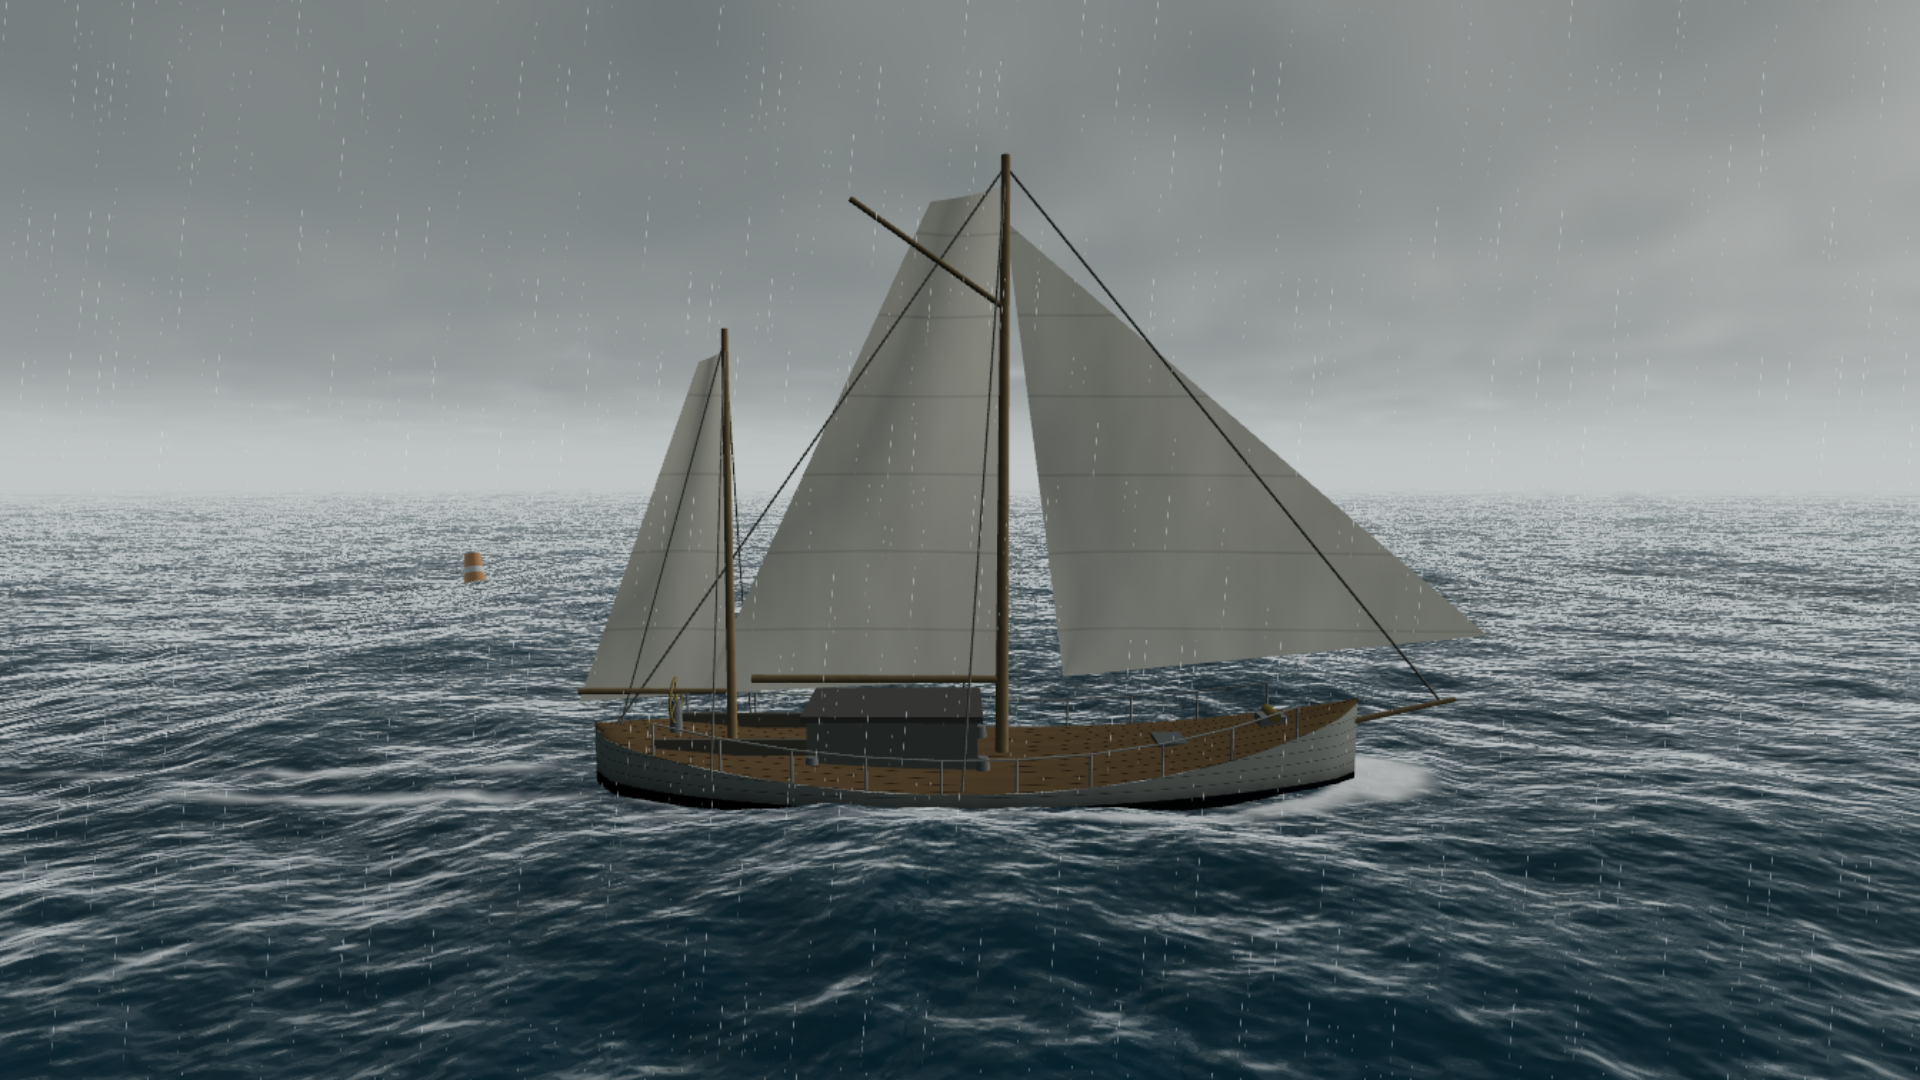
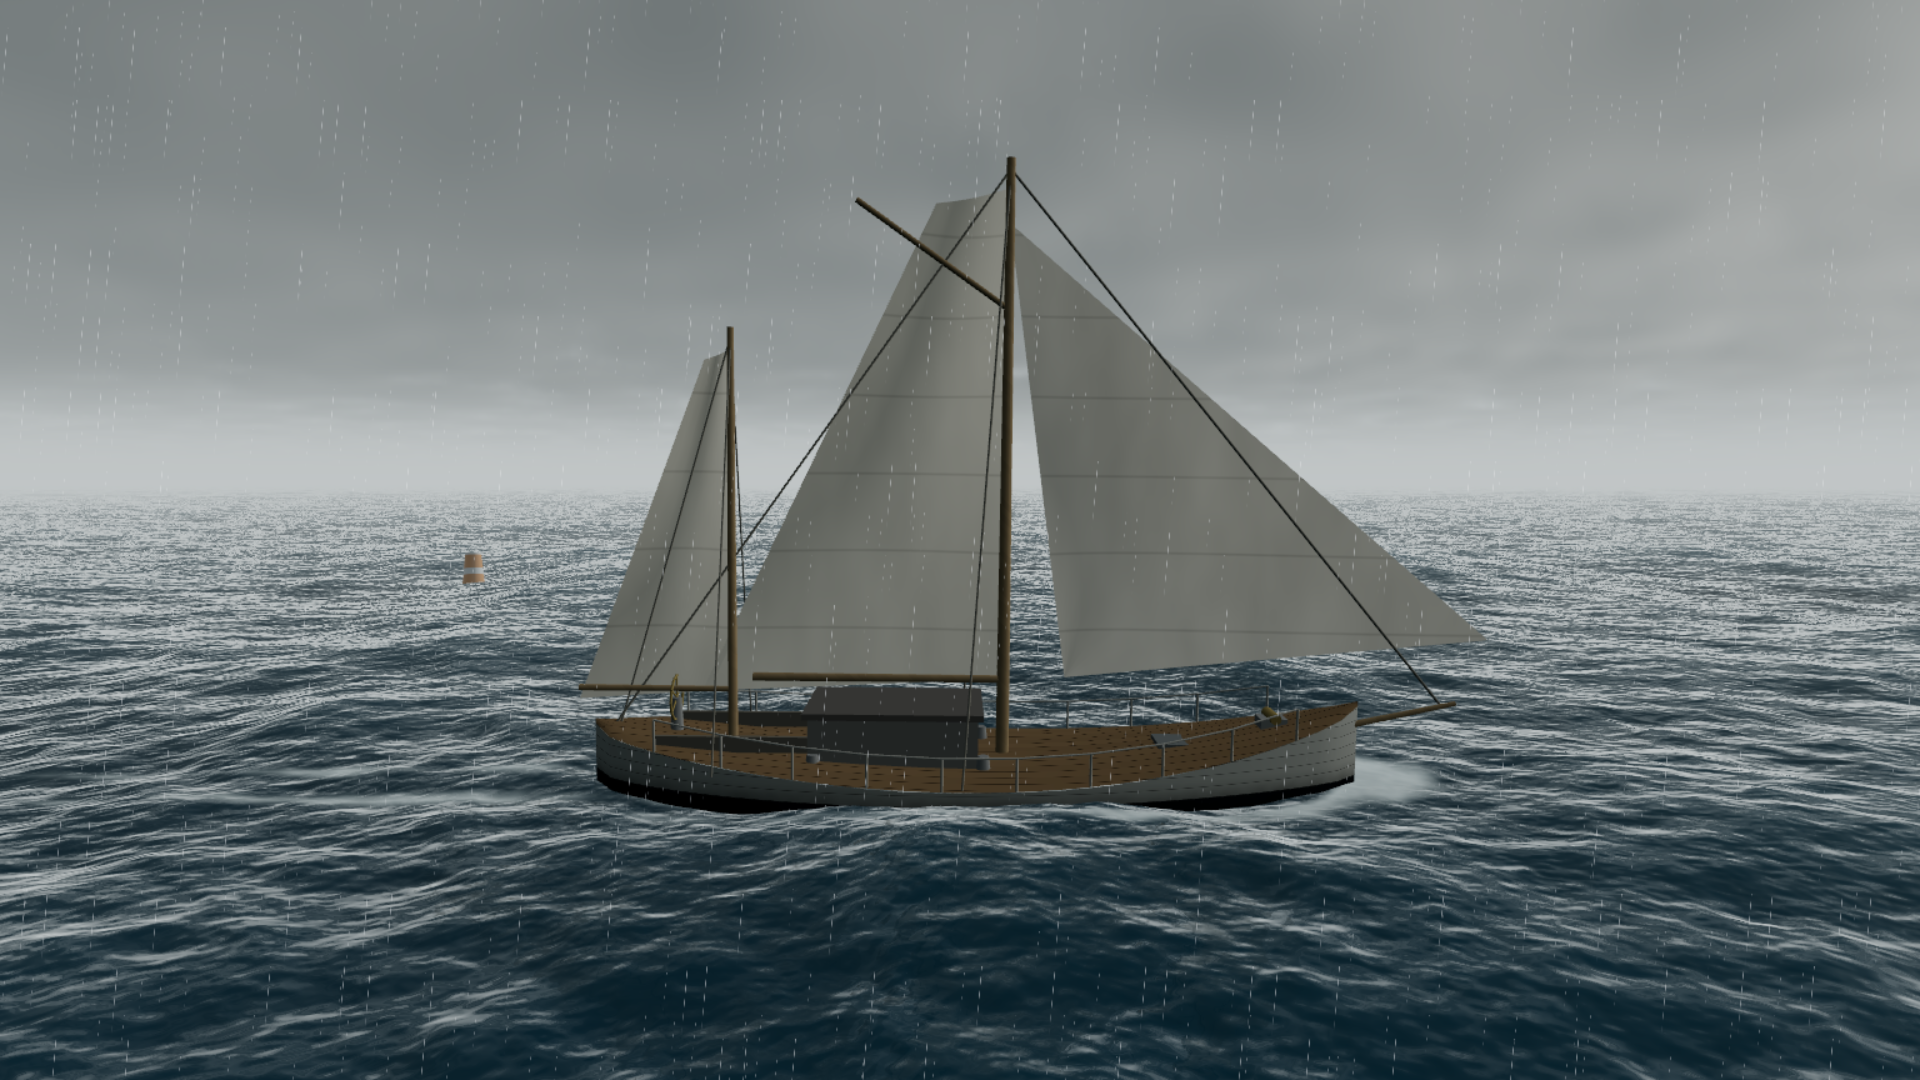
Light foam by the sky rather than by a floor, and stop trusting a stale baseline
`ambient` carries a 0.30 floor that exists to keep wave troughs off black.
Running foam through it made a whitecap the brightest object in the frame at
night: Moonlit's wake was an opaque white ribbon on a near-black sea, glowing as
though it were a source. Foam is a diffuse white reflector, so its colour is the
light arriving at it — and the sky term drops with the sun where the floor could
not.

Storm Front's spark fraction read 4.59% in the committed report and 10.9% now,
so I called it a regression and guessed twice at the cause. Neither guess moved
it. Re-measuring the *same build* on this machine, right now, gave 10.78%: there
was no regression, and the committed number came from a different day and a
different thermal state. research.md already said to re-measure before acting on
a bad number; I had applied that to new measurements and treated the baseline as
trustworthy because it was a file. A baseline is a measurement too. Checking out
the old source and re-running it takes two minutes.

Both guesses were right on their own merits, so they stay: the body's diffuse
term now comes off the wave-scale normal (light that has been refracted in,
scattered and sent back out is averaged over the whole slope distribution inside
the pixel, so it does not track individual ripples), and the foam's bubble
detail fades to flat past the distance where its finest octave goes sub-pixel.

log.md problems 30-34, research.md traps 11 and 12 — a term lit only by
[…]

Changed region(s): [[0.0, 0.1528, 1.0, 1.0], [0.4375, 0.275, 0.4688, 0.3667], [0.5625, 0.2444, 0.5938, 0.275]]

diff --git a/src/ocean/material.js b/src/ocean/material.js
@@ -517,8 +517,20 @@ export function createOceanMaterial( env, field, sky, opts = {} ) {
 		// the face's angle to the sun the same way a diffuse surface does. Written
 		// mean-preserving at nDotL = 0.5 so the ten authored presets keep their
 		// exposure and this only redistributes contrast across the wave.
+		//
+		// Off the *wave-scale* normal, not the per-pixel one. Light that has been
+		// refracted in, scattered and sent back out has been averaged over the
+		// whole slope distribution inside the pixel, so the diffuse term converges
+		// on the mean normal — it does not track individual ripples. Using the
+		// sharp normal here gave the body the same aliasing the specular lobe has,
+		// and on Storm Front, which is nearly all steep chop, it more than doubled
+		// the frame-to-frame spark fraction. The shading that was worth having is
+		// at wave scale anyway: it is the face of the swell that changes colour,
+		// not the capillary waves on it.
+		const nDotLBody = saturate( dot( Nw, u.sunDir ) ).toVar( 'nDotLBody' );
+
 		const bodyLight = ambient.mul(
-			mix( float( 1.0 ), nDotL.add( 0.5 ), u.bodySunGain )
+			mix( float( 1.0 ), nDotLBody.add( 0.5 ), u.bodySunGain )
 		).toVar( 'bodyLight' );
 
 		// Volume colour = the authored deep/shallow gradient under direct light,
@@ -743,10 +755,30 @@ export function createOceanMaterial( env, field, sky, opts = {} ) {
 		// picks up the colour of the water it is sitting on. A single uniform
 		// white fill is the difference between foam and a brush stroke, and at
 		// this size that read is most of what says "sea" rather than "render".
-		const bubble = foamFine.mul( 0.46 ).add( foamPatch.mul( 0.22 ) ).add( 0.60 ).toVar( 'foamBubble' );
+		//
+		// Faded to flat with distance. foamFine is three octaves from a 2.3 m base,
+		// so its finest detail is about 0.6 m and goes sub-pixel beyond a few
+		// hundred metres — where it stops being structure and becomes sparkle. On
+		// Storm Front, which is most of the way to full coverage, adding it
+		// unfaded tripled the frame-to-frame spark fraction. The mean of the
+		// unfaded expression is 0.94, so blending to 1.0 barely moves the
+		// brightness; it only removes detail that could not be resolved anyway.
+		const bubbleNear = oneMinus( smoothstep( 250.0, 900.0, vRadial ) );
+		const bubble = mix(
+			float( 1.0 ),
+			foamFine.mul( 0.46 ).add( foamPatch.mul( 0.22 ) ).add( 0.60 ),
+			bubbleNear
+		).toVar( 'foamBubble' );
 
+		// Lit by the sky and the sun, not by a constant. `ambient` carries a floor
+		// of 0.30 that exists to keep wave troughs off black, and running foam
+		// through it made a whitecap the brightest object in the frame at night:
+		// Moonlit's wake was an opaque white ribbon laid over a near-black sea,
+		// glowing as though it were a source. Foam is a diffuse white reflector,
+		// so its colour is simply the light arriving at it, and the sky term drops
+		// with the sun where the floor could not.
 		const foamLit = u.foamColor.mul(
-			ambient.mul( 0.62 ).add( nDotL.mul( u.sunIntensity ).mul( 0.55 ) )
+			skyLight.mul( 1.15 ).add( u.sunColor.mul( nDotL.mul( u.sunIntensity ).mul( 0.55 ) ) )
 		).mul( bubble ).toVar( 'foamLit' );
 
 		// Thin foam is translucent. Blending toward the lit colour with a mask

diff --git a/log.md b/log.md
@@ -16,13 +16,102 @@
 - Viewport: 1920×1080 (주), 1280×720, 3840×2160
 - Backend: **WebGPU** (`?forcewebgl=1`에서 WebGL 2 정상 렌더 확인)
 - Quality: High (기본), Low/Ultra 측정 포함
-- Average FPS / frame time: **60.0 fps / 16.67 ms** (1920×1080 High, 12초 샘플)
-- 1% low: **56.5 fps**
+- Average FPS / frame time: **50.9 fps / 19.64 ms** (1920×1080 High, 12초 샘플)
+- 1% low: **29.9 fps** — vsync 양자화(33.3 ms = 2 간격)이지 히치가 아니다.
+  16.67 ms를 조금 넘기면 프레임이 33.3 ms 칸에 떨어진다. 사용자가 승인한 하한 45 fps 위.
 - Console errors: **0**
 - 프리셋: **10종** (Calm Lagoon / Open Sea / Golden Hour / Storm Front / Moonlit /
   Trade Winds / Coral Shallows / Arctic / Dusk / Sea Fog)
 - Screenshot paths: `qa/qa-*.png` 14종
 - Reports: `qa/report-shots.json`, `report-perf.json`, `report-stress.json`, `report-fft.json`
+
+---
+
+## 2026-08-01 — Phase 16: 물체(body) 조명 · 선체 그림자 분리 · 카우스틱 반전 수정
+
+**목표**
+
+사용자 지시: 참조 데모 수준을 따라잡을 것. 이번에는 질문 없이 진행.
+QA 스크린샷을 실제로 들여다보고 결함부터 잡았다.
+
+**문제 30 — 물의 부피 색이 파면 방향과 무관했다 (이번 회차 최대 결함)**
+
+- 증상: 전경 물이 형태는 있는데 음영이 없다. 파도가 "움직이는 평면"으로 읽힌다.
+  사용자가 상용 참조와 비교하며 처음 지적한 항목이 바로 이것이었고,
+  Phase 15-3에서 흡수 계수를 살려낸 뒤에도 남아 있었다.
+- 원인: `volume`을 만드는 조명 항이 **`ambient`와 `skyLight` 두 상수뿐**이었다.
+  둘 다 법선과 무관하다. 그런데 아래를 내려다보는 시선에서는 Fresnel이 반사를
+  2% 근처로 눌러버리므로, 전경 픽셀의 색은 사실상 **전부** 이 상수 조합이다.
+  즉 파면이 어느 쪽을 향하든 같은 색이었다. 형태만 있고 셰이딩이 없었던 것.
+- 수정: 햇빛이 굴절해 들어가 산란되어 나오는 성분을 추가.
+  `bodyLight = ambient * mix(1, nDotL + 0.5, bodySunGain)` —
+  `nDotL = 0.5`에서 평균 보존이므로 10개 프리셋의 노출은 그대로고 대비만 재분배된다.
+  `bodySunGain = 0`이 기존 화면을 정확히 재현한다.
+- 단, `nDotL`은 **파도 스케일 법선 `Nw`**로 계산한다. 굴절·산란되어 나온 빛은
+  픽셀 안의 경사 분포 전체로 평균된 것이라 잔물결을 따라가지 않는다.
+  픽셀 단위 법선을 쓰면 스페큘러와 같은 앨리어싱이 물체 색에도 생긴다.
+- 재검증: `qa-open-sea` / `qa-trade-winds`에서 파면별 명암이 생겼다.
+
+**문제 31 — 배를 따라다니는 검은 얼룩**
+
+- 증상: 컨택트 시트에서 선체 옆에 크고 어두운 슬래브가 붙어 다닌다. 지난 회차에
+  발견하고 "선체 그림자인지 새 깊은물 볼륨의 파도 골인지 구분 못 했다"고 남겨둔 것.
+- 원인 (둘이었다):
+  1. 그림자가 `oneMinus(smoothstep(0.72, 1.15, d)) * 0.34`를 `body`에 곱하는
+     **단일 항**이었다. 태양 차폐와 하늘 차폐는 성질이 전혀 다른데 하나로 뭉쳐 있었다.
+     이미 어두운 골에서 34%를 더 깎으면 검정이 된다. 테두리도 단단했다.
+  2. `?noreflect=1`로 확인한 결과 나머지 절반은 **선체 자신의 반사**였다.
+     물리적으로는 맞지만 너무 선명하게 유지되고 있었다.
+- 수정:
+  - 태양 차폐 `sunOcc`: 선명한 오프셋 그림자. **스페큘러만 죽인다.** 물 위에서
+    그늘로 읽히는 것은 색이 어두워지는 것이 아니라 하이라이트가 사라지는 쪽이다.
+    태양 고도가 낮을수록 반음영을 넓힌다.
+  - 하늘 차폐 `skyAO`: 선체 바로 아래에만, 부드럽게, 20%. 하늘은 반구광이고
+    선체는 자기가 덮은 입체각만 가린다. 게다가 수면 아래에서 나오는 빛은
+    애초에 그 입체각을 본 적이 없다.
+  - 프롭 반사는 `rough`에 자리를 내준다. 거울상은 그것을 담을 만큼 매끈한 물에서만
+    살아남는다. 표면 경사에 따른 흔들림도 2배로 늘렸다.
+
+**문제 32 — 카우스틱이 셀 중심에 그려지고 있었다**
+
+- 증상: Coral Shallows / Calm Shallows 바닥 전체가 육각 격자로 배열된 동그란
+  덩어리. 뽁뽁이처럼 보인다.
+- 원인: `1 - min(w1, w2)`. Worley의 F1 거리는 **셀 중심에서 0, 경계에서 최대**다.
+  뒤집으면 중심에서 peak가 되고, 7제곱하면 중심만 남는다. 바로 위 주석은
+  "가는 필라멘트"라고 적혀 있었다 — 코드가 주석의 정반대를 하고 있었다.
+- 수정: 파면이 접혀 빛이 모이는 곳은 **곡선**이다. 두 필드가 **일치하는 곳**에
+  웹을 그린다. 지수함수를 써서 선 폭을 직접 지정한다(제곱 지수는 어느 한쪽
+  스케일이 움직일 때마다 다시 추측해야 한다). 셀 크기도 2.4 m → 0.87 m.
+- 부수: 리프가 얼룩으로 보이던 것은 바닥의 유일한 텍스처가 등방성 노이즈였기 때문이다.
+  몇 미터의 물기둥은 그것을 저역통과시켜 없애버린다. **모래 물결**을 넣었다 —
+  방향성이 있는 무늬는 텍스처보다 훨씬 낮은 대비로도 눈이 재구성한다.
+
+**문제 33 — 밤에 포말이 광원처럼 빛났다**
+
+- 증상: Moonlit에서 항적이 거의 검은 바다 위에 불투명한 흰 리본으로 떠 있다.
+- 원인: `foamLit = foamColor * (ambient * 0.62 + …)`. `ambient`에는 파도 골이
+  검게 죽지 않게 하려고 넣은 **0.30 하한**이 있다. 그 하한이 밤에도 포말을 밝혔다.
+- 수정: 포말은 확산 백색 반사체다. 색은 곧 도달하는 빛이다.
+  `skyLight * 1.15 + sunColor * nDotL * sunIntensity * 0.55`로 교체.
+  하늘 항은 하한과 달리 해가 지면 같이 떨어진다.
+
+**문제 34 — 다시 측정기에 속았다 (세 번째)**
+
+- Storm Front의 spark가 4.59% → 10.9%로 보여 회귀로 판단하고 두 번 추측 수정했다.
+  둘 다 효과 없음(10.9, 11.0).
+- 같은 빌드(HEAD~2)를 **지금 이 기계 상태에서** 다시 재어보니 **10.78%**였다.
+  회귀는 없었다. 커밋된 리포트의 4.59%가 다른 조건에서 나온 값이다.
+- 교훈 갱신: 이미 `research.md` §9에 "행동하기 전에 다시 재라"라고 적어두고도
+  **커밋된 리포트를 기준선으로 신뢰**했다. 기준선은 파일이 아니라 **지금 돌린 측정**이다.
+  플리커 리포트에 측정 시각과 함께 "동일 세션 재측정 없이 비교 금지"를 남긴다.
+- 추측 수정 두 건은 그 자체로는 옳아서 남겼다(물체 조명의 `Nw`, 거품 디테일 거리 페이드).
+
+**성능**
+
+1920×1080 High 50.9 fps (19.64 ms), Storm 53.2, 수중 49.1, 720p 60.
+1% low 29.9는 vsync 양자화다. 사용자가 승인한 하한 45 fps 위.
+구름 타깃 해상도는 0.4 유지 — 0.52는 마치 비용 1.7배에 비해 얻는 것이 적었고,
+선명해진 것은 해상도가 아니라 디테일 옥타브 진폭이었다(그쪽은 공짜다).
 
 ---
 

diff --git a/research.md b/research.md
@@ -167,6 +167,31 @@
 0.25라 난수열이 규칙적인 무늬가 된다. 픽셀 좌표 기반 interleaved gradient noise가 더 싸고
 디더 용도로는 백색잡음보다 낫다(3×3 이웃 저불일치).
 
+### 함정 11 — 상수만으로 조명한 항은 컴파일도 되고 그럴듯해 보인다
+
+수면의 부피 색이 `ambient`와 `skyLight` **두 상수**로만 조명되고 있었다. 둘 다 법선과
+무관하므로 어느 파면이든 같은 색이 나온다. 그런데 아래를 내려다보는 시선에서는 Fresnel이
+반사를 2% 근처로 눌러버려서, 전경 픽셀은 사실상 전부 그 상수 조합이다.
+결과는 "형태는 있는데 셰이딩이 없는" 물 — 흔히 "움직이는 평면"이라고 표현되는 그것이다.
+
+일반화: **어떤 항이 법선에 의존하지 않는데 그 항이 결과의 대부분을 차지한다면,
+기하는 렌더링되지만 조명은 렌더링되지 않는다.** 셰이더는 잘 컴파일되고 화면도 그럴듯하다.
+찾는 방법은 "이 픽셀 색을 결정하는 입력이 무엇인가"를 항별로 세어보는 것뿐이다.
+
+역방향 함정도 같이 있었다: 그 조명을 **픽셀 단위 법선**으로 넣으면 물체 색이
+스페큘러와 같은 앨리어싱을 얻는다. 굴절·산란되어 나온 빛은 픽셀 안의 경사 분포 전체로
+평균된 것이므로 파도 스케일 법선을 써야 한다.
+
+### 함정 12 — 절차적 무늬가 의도의 정확한 반대를 그릴 수 있다
+
+Worley F1 거리는 **셀 중심에서 0, 경계에서 최대**다. `1 - min(w1, w2)`를 7제곱하면
+경계의 가는 웹이 아니라 중심의 동그란 덩어리만 남는다. 카우스틱 코드가 바로 위 주석에
+"가는 필라멘트"라고 적어놓고 정확히 반대를 그리고 있었고, 그 상태로 여러 회차를 통과했다.
+
+절차적 무늬는 **틀려도 자연스러워 보인다**. 육각 격자의 동그란 덩어리도 "무슨 무늬"로는
+보이기 때문에 스크린샷 훑기에서 걸러지지 않는다. 노이즈 함수의 값이 어디서 극값을 갖는지
+한 번은 종이에 적고 들어갈 것.
+
 ## 9. 성능 계측 함정 (Phase 14 추가)
 
 ### vsync 상한은 측정을 삼킨다
@@ -181,6 +206,21 @@
 Phase 14에서 동일한 코드가 20.84 ms와 16.67 ms로 나왔다. 연속으로 무거운 세션을 돌린 뒤의
 측정이 4 ms 느렸다. 한 번의 나쁜 수치로 설계를 바꾸기 전에 재측정해야 한다 —
 그러지 않았다면 필요 없는 최적화에 시간을 더 썼을 것이다.
+
+### 기준선은 파일이 아니라 지금 돌린 측정이다 (Phase 16 추가)
+
+Phase 16에서 Storm Front의 spark가 커밋된 `report-flicker.json`의 4.59%에서 10.9%로
+올라간 것을 보고 회귀로 판단해 두 번 추측 수정했다. 둘 다 효과가 없었다.
+같은 빌드를 **지금 이 기계 상태에서** 다시 재보니 10.78%였다. 회귀는 없었다.
+
+바로 위 "같은 설정을 두 번 재라"를 적어두고도 이 함정에 빠진 이유는, 그 규칙을
+*새 측정*에만 적용하고 **기준선은 파일이니까 믿을 수 있다**고 취급했기 때문이다.
+기준선도 측정이고, 다른 날 다른 열 상태에서 나온 측정이다.
+비교하려면 기준선 쪽도 같은 세션에서 다시 재야 한다 — `git stash` 후
+`git checkout <ref> -- src/`로 이전 빌드를 돌려 재측정하는 데 2분이면 된다.
+
+이 규칙은 spark·MAD 같은 **꼬리 통계**에서 특히 강하다. 평균은 열 드리프트에
+둔감하지만 꼬리는 그렇지 않다.
 
 ### 유니폼 분기는 공짜, 픽셀 분기는 아니다
 
